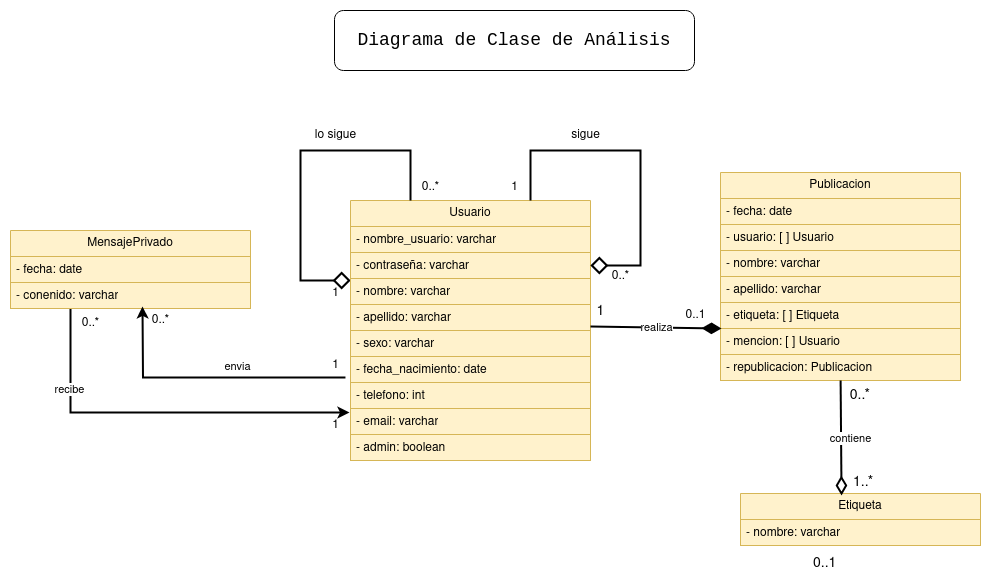
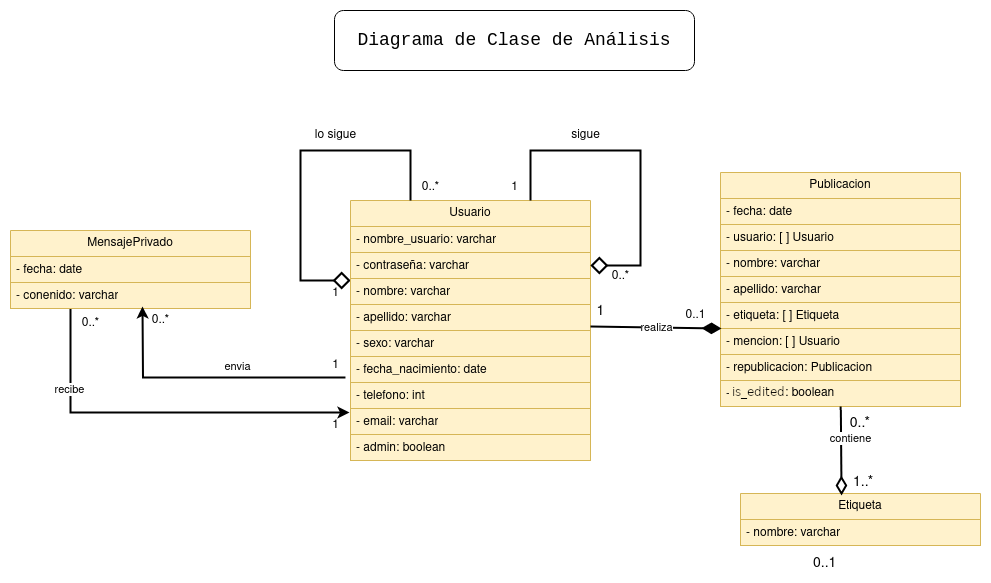
cambio de nombres a los controllers y modificacion al diagrama de clases de analisis

Changed region(s): [[0.7265, 0.6484, 0.9687, 0.741]]

diff --git a/microbloggin-app_final/twitter/views.py b/microbloggin-app_final/twitter/views.py
@@ -46,19 +46,23 @@ class UserController(APIView):
         usuarios_serializer = UsuarioSerializer(usuarios, many=True)
         return JsonResponse(data=usuarios_serializer.data, safe=False, status=status.HTTP_200_OK)
 
+class UsuarioDetalleController(APIView):
 
-@api_view(['GET', 'PUT', 'DELETE'])
-def usuario_detalle(request, id):
-    try:
-        usuario = Usuario.objects.get(pk=id)
-    except Usuario.DoesNotExist:
-        return JsonResponse({'error': 'El usuario no existe'}, status=status.HTTP_404_NOT_FOUND)
+    def get(self, request, id):
+        try:
+            usuario = Usuario.objects.get(pk=id)
+        except Usuario.DoesNotExist:
+            return JsonResponse({'error': 'El usuario no existe'}, status=status.HTTP_404_NOT_FOUND)
 
-    if request.method == 'GET':
         usuarios_serializer = UsuarioSerializer(usuario)
         return JsonResponse(usuarios_serializer.data, status=status.HTTP_200_OK)
 
-    elif request.method == 'PUT':
+    def put(self, request, id):
+        try:
+            usuario = Usuario.objects.get(pk=id)
+        except Usuario.DoesNotExist:
+            return JsonResponse({'error': 'El usuario no existe'}, status=status.HTTP_404_NOT_FOUND)
+
         usuario_data = JSONParser().parse(request)
         try:
             Usuario.objects.filter(pk=id).update(**usuario_data)
@@ -66,13 +70,17 @@ def usuario_detalle(request, id):
         except Exception as ex: 
             return JsonResponse({'error': str(ex)}, status=status.HTTP_400_BAD_REQUEST)
 
-    elif request.method == 'DELETE':
+    def delete(self, request, id):
+        try:
+            usuario = Usuario.objects.get(pk=id)
+        except Usuario.DoesNotExist:
+            return JsonResponse({'error': 'El usuario no existe'}, status=status.HTTP_404_NOT_FOUND)
+
         usuario.delete()
         return JsonResponse({'mensaje': 'usuario eliminada definitivamente!'}, status=status.HTTP_204_NO_CONTENT)
 
-@api_view(['GET','POST'])
-def publicacion(request):
-    if request.method == 'GET':
+class PublicacionController(APIView):
+    def get(self, request):
         try:
             publicaciones = Publicacion.objects.all()
         except Publicacion.DoesNotExist:
@@ -80,7 +88,7 @@ def publicacion(request):
         publicaciones_serializer = PublicacionSerializer(publicaciones, many = True)
         return JsonResponse(publicaciones_serializer.data, safe=False, status=status.HTTP_200_OK)
 
-    if request.method == 'POST':
+    def post(self, request):
         publicacion_data = JSONParser().parse(request)
         publicacion_serializer = PublicacionSerializer(data=publicacion_data)
         if publicacion_serializer.is_valid():
@@ -88,36 +96,36 @@ def publicacion(request):
             return JsonResponse(publicacion_serializer.data, status=status.HTTP_200_OK)
         return JsonResponse(publicacion_serializer.errors, status=status.HTTP_400_BAD_REQUEST)
     
-@api_view(['GET'])
-def perfil(request, id):
-    try:
-        usuario = Usuario.objects.get(pk=id)
-        publicacion = Publicacion.objects.filter(
-            usuario=id
-        )
-    except Usuario.DoesNotExist:
-        return JsonResponse({'error': 'El usuario no existe'}, status=status.HTTP_404_NOT_FOUND)
+class PerfilController(APIView):
+    def get(self, request, id):
+        try:
+            usuario = Usuario.objects.get(pk=id)
+            publicacion = Publicacion.objects.filter(
+                usuario=id
+            )
+        except Usuario.DoesNotExist:
+            return JsonResponse({'error': 'El usuario no existe'}, status=status.HTTP_404_NOT_FOUND)
 
-    if request.method == 'GET':
-        publicaciones = []
+        if request.method == 'GET':
+            publicaciones = []
 
-        publicacion_serializer = PublicacionSerializer(publicacion, many=True)
-        for i in publicacion_serializer.data:
-            publicaciones.append(i)
-        usuario_serializer = UsuarioSerializer(usuario)
+            publicacion_serializer = PublicacionSerializer(publicacion, many=True)
+            for i in publicacion_serializer.data:
+                publicaciones.append(i)
+            usuario_serializer = UsuarioSerializer(usuario)
 
-        usuarios_seguidos = RelacionSeguidor.objects.filter(seguidores=usuario)
-        usuarios_seguidores = RelacionSeguidor.objects.filter(seguido=usuario)
+            usuarios_seguidos = RelacionSeguidor.objects.filter(seguidores=usuario)
+            usuarios_seguidores = RelacionSeguidor.objects.filter(seguido=usuario)
 
-        usuarios_seguidos_serialized = RelacionSeguidorSerializer(usuarios_seguidos, many=True)
-        usuarios_seguidores_serialized = RelacionSeguidorSerializer(usuarios_seguidores, many=True)
+            usuarios_seguidos_serialized = RelacionSeguidorSerializer(usuarios_seguidos, many=True)
+            usuarios_seguidores_serialized = RelacionSeguidorSerializer(usuarios_seguidores, many=True)
 
-        Dic = {}
-        Dic.update(usuario_serializer.data)
-        Dic.update({'Publicaciones': publicaciones})
-        Dic.update({'Seguidos': [i["seguido"] for i in usuarios_seguidos_serialized.data]})
-        Dic.update({'Seguidores': [i["seguidores"] for i in usuarios_seguidores_serialized.data]})
-        return JsonResponse(Dic, status=status.HTTP_200_OK)
+            Dic = {}
+            Dic.update(usuario_serializer.data)
+            Dic.update({'Publicaciones': publicaciones})
+            Dic.update({'Seguidos': [i["seguido"] for i in usuarios_seguidos_serialized.data]})
+            Dic.update({'Seguidores': [i["seguidores"] for i in usuarios_seguidores_serialized.data]})
+            return JsonResponse(Dic, status=status.HTTP_200_OK)
 
 @api_view(['POST'])
 def tendencia(request):
@@ -129,41 +137,36 @@ def tendencia(request):
             return JsonResponse(tendencia_data.data, status=status.HTTP_200_OK)
         return JsonResponse(tendencia_data.errors, status=status.HTTP_400_BAD_REQUEST)
 
-@api_view(['GET'])
-def followers(request, id):
+class FollowersController(APIView):
+    def get(self, request, id):
 
-    usuario = get_object_or_404(Usuario, id=id)
+        usuario = get_object_or_404(Usuario, id=id)
 
-    if request.method == 'GET':
-        usuarios_seguidores = RelacionSeguidor.objects.filter(seguido=usuario)
-        if usuarios_seguidores.exists():
-            usuarios_seguidores_serialized = RelacionSeguidorSerializer(usuarios_seguidores, many=True)
+        if request.method == 'GET':
+            usuarios_seguidores = RelacionSeguidor.objects.filter(seguido=usuario)
+            if usuarios_seguidores.exists():
+                usuarios_seguidores_serialized = RelacionSeguidorSerializer(usuarios_seguidores, many=True)
 
+                seguidores = []
+                for i in usuarios_seguidores_serialized.data:
+                    seguidores.append(Usuario.objects.get(pk=i["seguidores"]))
+                
+                seguidores_serialized = UsuarioSerializer(seguidores, many=True)
+                return JsonResponse({"seguidores":seguidores_serialized.data}, status=status.HTTP_200_OK)
+            return JsonResponse({'Error': 'No existe ninguna publicacion'}, status=status.HTTP_404_NOT_FOUND)
 
-            seguidores = []
-            for i in usuarios_seguidores_serialized.data:
-                seguidores.append(Usuario.objects.get(pk=i["seguidores"]))
-            
-            seguidores_serialized = UsuarioSerializer(seguidores, many=True)
-            return JsonResponse({"seguidores":seguidores_serialized.data}, status=status.HTTP_200_OK)
-        return JsonResponse({'Error': 'No existe ninguna publicacion'}, status=status.HTTP_404_NOT_FOUND)
+class FollowerController(APIView):
+    def post(self, request, id):
 
+        followed_id = request.data["followed_id"]
 
+        if int(followed_id) == int(id):
+            return JsonResponse({'error': 'No puede seguirse a si mismo'}, status=status.HTTP_409_CONFLICT)
 
-@api_view(['POST', 'DELETE'])
-def follower(request, id):
+        usuario_fd = get_object_or_404(Usuario, id=followed_id)
+        usuario_fr = get_object_or_404(Usuario, id=id)
 
-    followed_id = request.data["followed_id"]
-
-    if int(followed_id) == int(id):
-        return JsonResponse({'error': 'No puede seguirse a si mismo'}, status=status.HTTP_409_CONFLICT)
-
-    usuario_fd = get_object_or_404(Usuario, id=followed_id)
-    usuario_fr = get_object_or_404(Usuario, id=id)
-
-    is_following = usuario_fr.follows(usuario_fd)
-
-    if request.method == 'POST':
+        is_following = usuario_fr.follows(usuario_fd)
 
         if is_following:
             return JsonResponse({'error': "ya sigue a este usuario"}, status=status.HTTP_409_CONFLICT)
@@ -171,7 +174,17 @@ def follower(request, id):
         RelacionSeguidor.objects.create(seguidores=usuario_fr, seguido=usuario_fd)
         return JsonResponse({'mensaje': "usuario seguido"}, status=status.HTTP_200_OK)
 
-    if request.method == 'DELETE':
+    def delete(self, request, id):
+
+        followed_id = request.data["followed_id"]
+
+        if int(followed_id) == int(id):
+            return JsonResponse({'error': 'No puede seguirse a si mismo'}, status=status.HTTP_409_CONFLICT)
+
+        usuario_fd = get_object_or_404(Usuario, id=followed_id)
+        usuario_fr = get_object_or_404(Usuario, id=id)
+
+        is_following = usuario_fr.follows(usuario_fd)
 
         if not is_following:
             return JsonResponse({'error': "usted no sigue a este usuario"}, status=status.HTTP_409_CONFLICT)
@@ -179,43 +192,46 @@ def follower(request, id):
         RelacionSeguidor.objects.filter(seguidores=usuario_fr, seguido=usuario_fd).delete()
         return JsonResponse({'mensaje': "usuario se ha dejado de seguir"}, status=status.HTTP_200_OK)
 
-@api_view(['GET'])
-def chat(request, id):
-    receptor = get_object_or_404(Usuario, id=id)
-    emisor = get_object_or_404(Usuario, id=request.data["user"])
-    mensajes = MensajePriv.objects.filter(emisor=emisor, receptor=receptor) | MensajePriv.objects.filter(emisor=receptor, receptor=emisor)
-    mensajes = mensajes.order_by("fecha")
-    mensajes_serialized = MensajePrivSerializer(mensajes, many=True)
+class ChatController(APIView):
+    def get(self, request, id):
+        receptor = get_object_or_404(Usuario, id=id)
+        emisor = get_object_or_404(Usuario, id=request.data["user"])
+        mensajes = MensajePriv.objects.filter(emisor=emisor, receptor=receptor) | MensajePriv.objects.filter(emisor=receptor, receptor=emisor)
+        mensajes = mensajes.order_by("fecha")
+        mensajes_serialized = MensajePrivSerializer(mensajes, many=True)
 
-    return JsonResponse({"msg":mensajes_serialized.data}, status=status.HTTP_200_OK)
+        return JsonResponse({"msg":mensajes_serialized.data}, status=status.HTTP_200_OK)
 
-@api_view(['POST'])
-def send_message(request, id):
-    emisor = get_object_or_404(Usuario, id=id)
-    receptor = get_object_or_404(Usuario, id=request.data["user"])
+    def post(self, request, id):
+        emisor = get_object_or_404(Usuario, id=id)
+        receptor = get_object_or_404(Usuario, id=request.data["user"])
 
-    contenido = request.data["contenido"]
-    mensaje = MensajePriv.objects.create(
-        contenido = contenido,
-        receptor = receptor,
-        emisor = emisor
-    )
+        contenido = request.data["contenido"]
+        mensaje = MensajePriv.objects.create(
+            contenido = contenido,
+            receptor = receptor,
+            emisor = emisor
+        )
 
-    return JsonResponse({"msg": mensaje.contenido, "fecha":str(mensaje.fecha)}, status=status.HTTP_200_OK)
+        return JsonResponse({"msg": mensaje.contenido, "fecha":str(mensaje.fecha)}, status=status.HTTP_200_OK)
 
 
-@api_view(['GET', 'PUT', 'DELETE'])
-def publicacion_detail(request, id):
-    try:
-        publicacion = Publicacion.objects.get(pk=id)
-    except Publicacion.DoesNotExist:
-        return JsonResponse({'Error': 'No existe ninguna publicacion'}, status=status.HTTP_404_NOT_FOUND)
-    
-    if request.method == 'GET':
+class PublicacionDetalleController(APIView):
+    def get(self, request, id):
+        try:
+            publicacion = Publicacion.objects.get(pk=id)
+        except Publicacion.DoesNotExist:
+            return JsonResponse({'Error': 'No existe ninguna publicacion'}, status=status.HTTP_404_NOT_FOUND)
+
         publicacion_serializer = PublicacionSerializer(publicacion)
         return JsonResponse(publicacion_serializer.data, status=status.HTTP_200_OK)
     
-    if request.method == 'PUT':
+    def put(self, request, id):
+        try:
+            publicacion = Publicacion.objects.get(pk=id)
+        except Publicacion.DoesNotExist:
+            return JsonResponse({'Error': 'No existe ninguna publicacion'}, status=status.HTTP_404_NOT_FOUND)
+
         publicacion_data = request.data
         publicacion.contenido = publicacion_data.get('contenido', publicacion.contenido)
         publicacion.etiqueta = publicacion_data.get('etiqueta', publicacion.etiqueta)
@@ -225,6 +241,11 @@ def publicacion_detail(request, id):
         publicacion_serializer = PublicacionSerializer(publicacion)
         return JsonResponse(publicacion_serializer.data, status=status.HTTP_200_OK)
     
-    if request.method == 'DELETE':
+    def delete(self, request, id):
+        try:
+            publicacion = Publicacion.objects.get(pk=id)
+        except Publicacion.DoesNotExist:
+            return JsonResponse({'Error': 'No existe ninguna publicacion'}, status=status.HTTP_404_NOT_FOUND)
+
         publicacion.delete()
         return JsonResponse({'message': 'Publicacion eliminada exitosamente.'}, status=status.HTTP_200_OK)

diff --git a/microbloggin-app_final/microbloggin/urls.py b/microbloggin-app_final/microbloggin/urls.py
@@ -22,15 +22,14 @@ urlpatterns = [
     path('admin/', admin.site.urls),
     re_path(r'^api/usuarios$', views.UserController.as_view()),
     re_path(r'^api/login$', views.LoginController.as_view()),
+    re_path(r'^api/usuario_detalle/(?P<id>[0-9]+)$', views.UsuarioDetalleController.as_view()),
+    re_path(r'^api/publicaciones$', views.PublicacionController.as_view()),
+    re_path(r'^api/perfil/(?P<id>[0-9]+)$', views.PerfilController.as_view()),
+    re_path(r'^api/follower/(?P<id>[0-9]+)$', views.FollowerController.as_view()),
+    re_path(r'^api/followers/(?P<id>[0-9]+)$', views.FollowersController.as_view()),
+    re_path(r'^api/chat/(?P<id>[0-9]+)$', views.ChatController.as_view()),
+    re_path(r'^api/publicacion/(?P<id>[0-9]+)$', views.PublicacionDetalleController.as_view()),
 
 
-    re_path(r'^api/usuarios/(?P<id>[0-9]+)$', views.usuario_detalle),
-    re_path(r'^api/publicaciones$', views.publicacion),
-    re_path(r'^api/perfil/(?P<id>[0-9]+)$', views.perfil),
     re_path(r'^api/tendencia$', views.tendencia),
-    re_path(r'^api/follower/(?P<id>[0-9]+)$', views.follower),
-    re_path(r'^api/followers/(?P<id>[0-9]+)$', views.followers),
-    re_path(r'^api/chat/(?P<id>[0-9]+)$', views.chat),
-    re_path(r'^api/send_message/(?P<id>[0-9]+)$', views.send_message),
-    re_path(r'^api/publicacion/(?P<id>[0-9]+)$', views.publicacion_detail),
 ]
